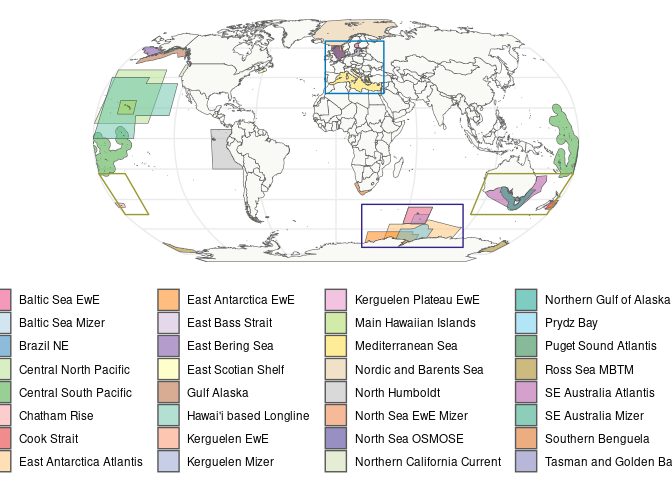
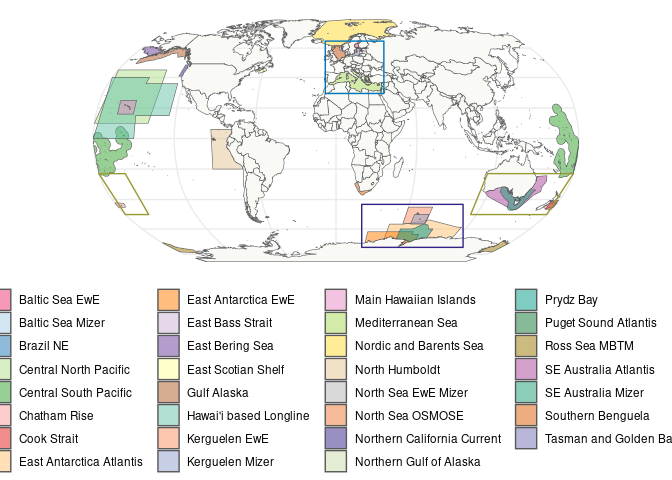
removing duplicate region

diff --git a/Scripts/02_Mapping_Regional_Models.md b/Scripts/02_Mapping_Regional_Models.md
@@ -137,12 +137,12 @@ fishmip_reg <- read_sf("../Outputs/FishMIP_regional_models/FishMIP_regional_mode
 fishmip_reg
 ```
 
-    ## Simple feature collection with 32 features and 3 fields
+    ## Simple feature collection with 31 features and 3 fields
     ## Geometry type: MULTIPOLYGON
     ## Dimension:     XY
     ## Bounding box:  xmin: -180 ymin: -78.74234 xmax: 180 ymax: 83.66553
     ## Geodetic CRS:  WGS 84
-    ## # A tibble: 32 × 4
+    ## # A tibble: 31 × 4
     ##    region                   models             nmbr_md                  geometry
     ##  * <chr>                    <chr>                <int>        <MULTIPOLYGON [°]>
     ##  1 Baltic Sea EwE           EwE                      1 (((23.5 64.5, 23.5 64.05…
@@ -155,11 +155,11 @@ fishmip_reg
     ##  8 East Antarctica Atlantis Atlantis                 1 (((81.87166 -53.63183, 1…
     ##  9 East Antarctica EwE      EwE                      1 (((80 -64, 80 -68.00585,…
     ## 10 East Bass Strait         EwE                      1 (((150.5 -36, 150.5 -39,…
-    ## # ℹ 22 more rows
+    ## # ℹ 21 more rows
 
 # Plotting map
 
-Since we removed the Southern Ocean region, we have 32 polygons left.
+Since we removed the Southern Ocean region, we have 31 polygons left.
 However, we will need to apply some changes to our datasets to create
 publication ready maps.
 
@@ -186,7 +186,7 @@ world <- ne_countries(scale = "medium", returnclass = "sf") |>
 
 #Creating a colour palette by merging colour brewer palettes
 pal <- c("#ee3377", brewer.pal(12, "Paired"), brewer.pal(8, "Set2"), 
-         "#ee7733", "#332288", "#ccddaa", "#009988", "#66ccee", 
+         "#ee7733", "#332288", "#ccddaa", "#009988", 
          "#117733", "#997700", "#aa4499", brewer.pal(3, "Dark2"))
 
 #Reprojecting FishMIP regions
